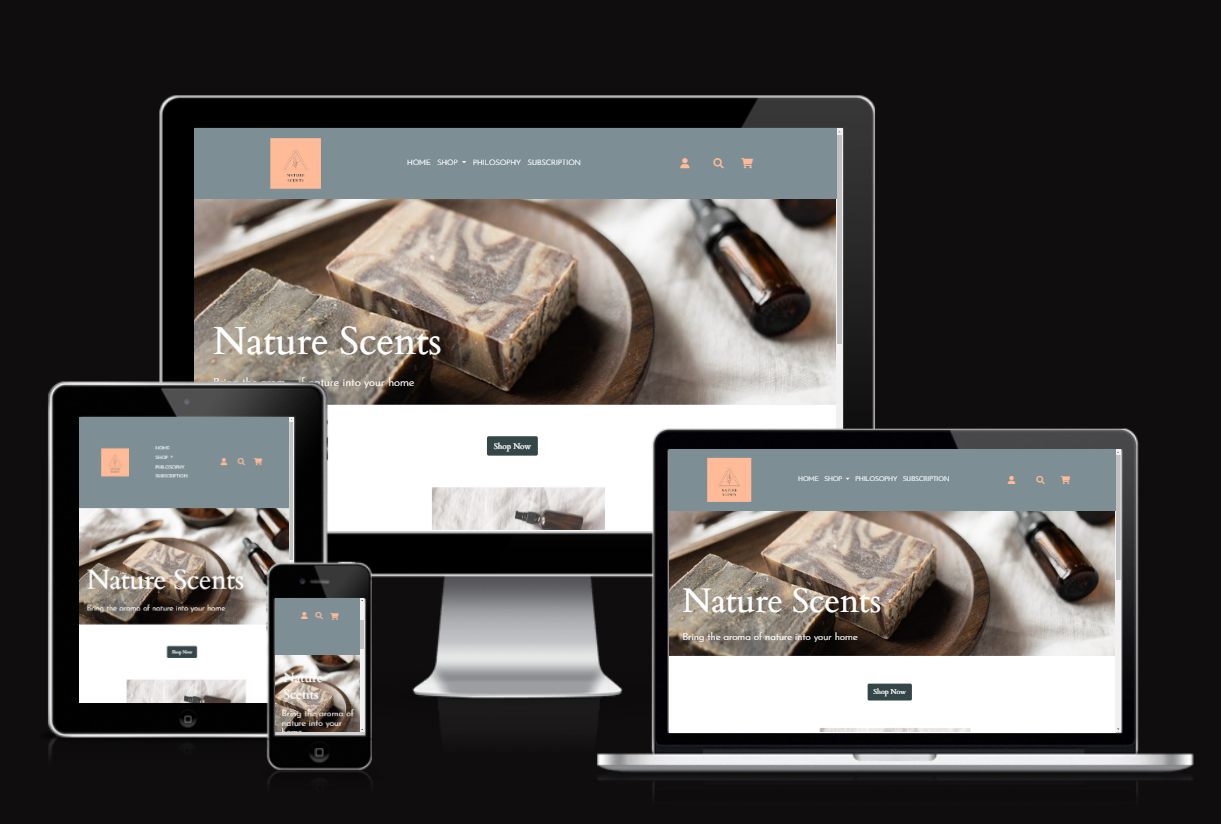
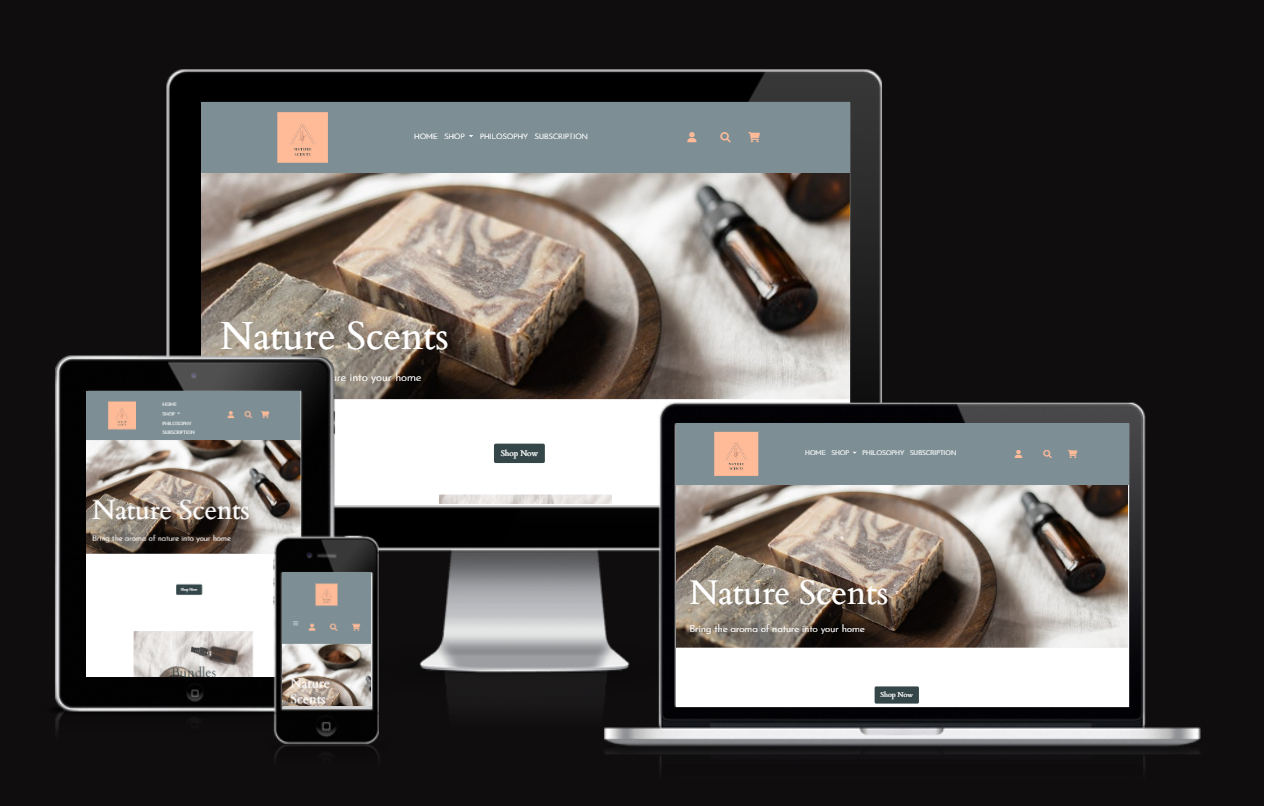
Update responsive screenshot. Add App information to READme

diff --git a/README.md b/README.md
@@ -43,6 +43,7 @@ This e-commerce site is a B2C model. The goal of the site is to not only make on
 | User can filter products by key word | 4 | 4
 | User can purchase products using STRIPE payment | 5 | 5
 | User can see reviews from other customers | 3 | 3
+| User can see number of items in shopping bag with nav icon | 3 | 3
 | Site owner can add products | 5 | 5
 | Site owner can edit a product | 5 | 5
 | Site owner can login to admin to edit products/approve users | 5 | 5
@@ -117,18 +118,46 @@ In order to achieve the goals of the site owner and customer, the following feat
 <br>
 
 - Home App
+<hr>
+<br>
+The Home App contains the templates for the home page, subscription page and philosophy page. It is a simple app that exists with views, and urls to render these pages on the website.
+<br>
 
 - Products App
-
-- Checkout App
-
-- Profile App
-
-- Subscription App
+<hr>
+<br>
+The Products App is the main hub of the site, where all users are drawn in order to view products, see them in detail and add them to their shopping cart. The app contains two models: The <strong>Product</strong> model and the <strong>Category</strong>
+model. There is a product detail view linked to a product detail template so that users can clic into an individual product and see further details about it, and if they decide add it to their shopping cart.
+<br>
+Site owners have the ability to add products to the database from the frontend using the add_product view, they can also edit or delete poroducts from the database, using the edit_product, and delete_product views respectively.
+<br>
 
 - Shopping Cart App
+<hr>
+<br>
+The Shopping Cart App has 4 views, cart, add_to_cart, adjust_cart and remove_from_cart. The cart view renders the contents of the users shopping cart into the cart template. The other 3 views allow the user to either add to their cart, adjust the quantity of the product in question or if they change their mind they can remove products from their cart..
+<br>
+
+- Checkout App
+<hr>
+<br>
+The Checkout App consist of two models, Order and OrderLineItem. This app's function is to take what is in the users shoppign cart and enable them to go through the process of payment and order completion.
+<br>
+The Order Line Item model has a Foriegn Key to product, and order. It captures the product, quantity and price of the items in the users shopping cart.
+<br>
+The Order model contains all the users' shipping/billing details, contact details etc. It has a Foreign Key to the User_Profile model, and captures the total cost of the order, also calculating if the customer has hit the free delivery threshold of €50. It also contains information regarding the payment, the stripe PID and has an original cart field to be sent to the admin.
+<br>
+
+- Profile App
+<hr>
+<br>
+The Profile App allows authenticated users to see 2 things about their account. Firstly they are able to see their default address/contact details for orders, using a Form called UserProfileForm. When they are logged in ans go to checkout their default information prepopulates the checkout form which makes for a better user experience. The second thing they are able to access from this app is a run down of their order history, with unique id that is generated from the checkout app. It contains one model, UserProfile.
+<br>
 
 - Newsletter App
+<hr>
+<br>
+The Newsletter App has one model NewsletterInput, with an email field. This app links to a frontend input positioned in the footer of the site, which enables users to enter their email to sign-up for news updates, special offers etc.
 
 
 ## Skeleton Plane
